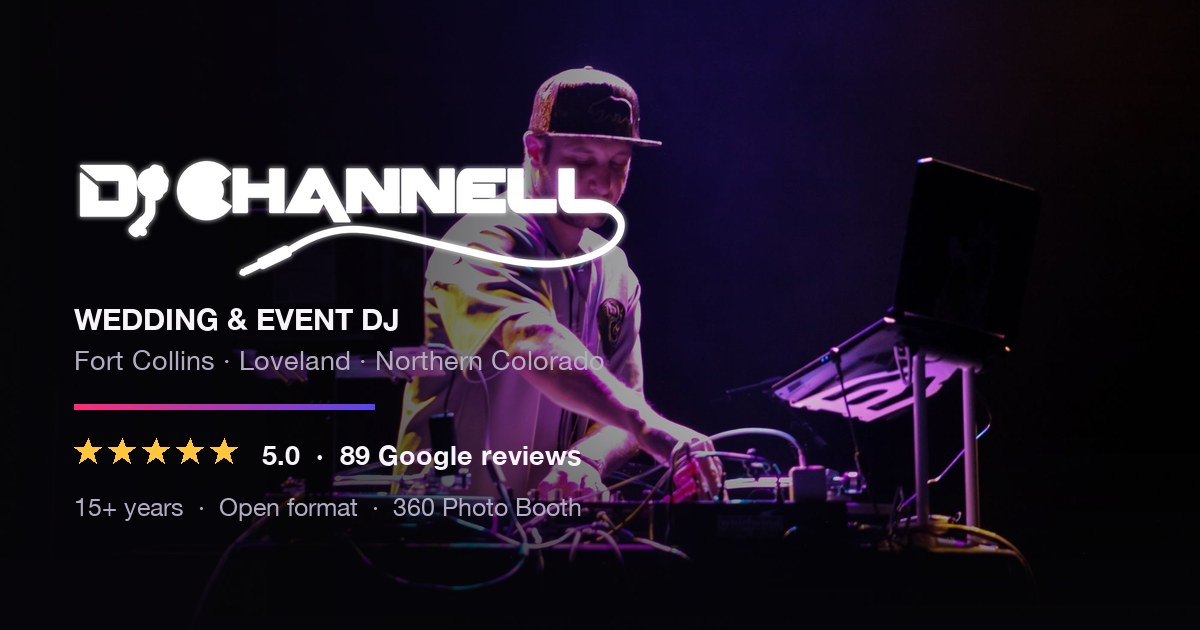
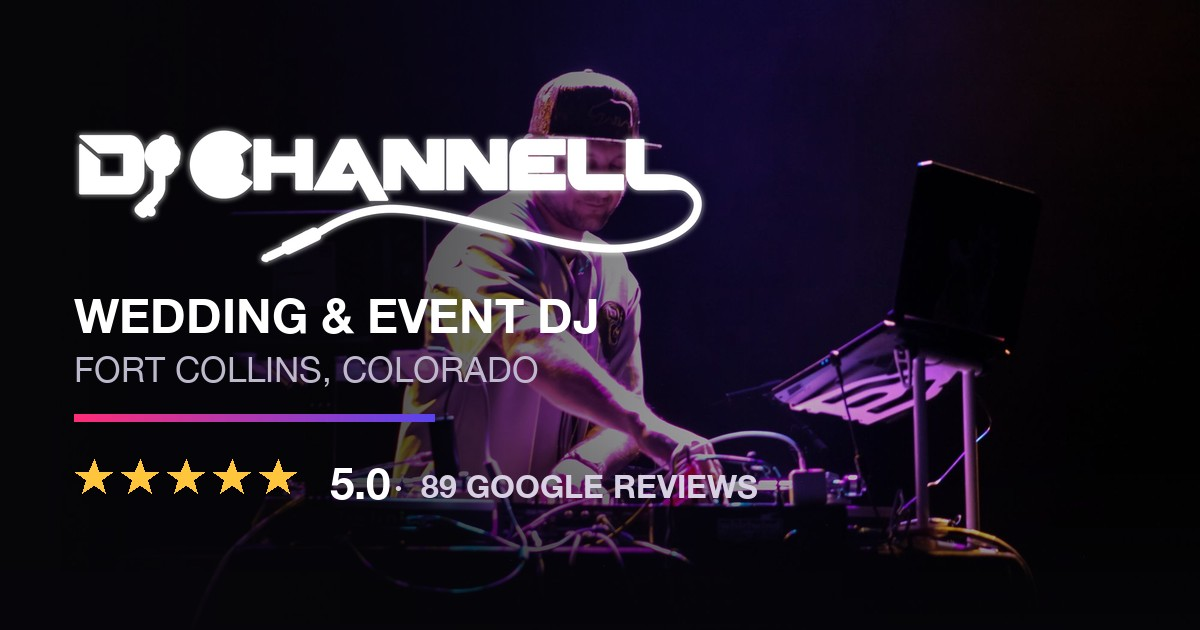
Make the link preview actually render when you text the site
og:image pointed at www.djchannell.com, which still serves Wix, so the image
404'd and texting the link produced a card with no picture. It now points at the
.vercel.app origin, which resolves today and keeps resolving after DNS moves.
og:url moved too - it was still claiming www.djchannell.com, and a scraper that
follows og:url would have fetched the old Wix site and previewed that instead.

canonical deliberately stays on www.djchannell.com so Google consolidates there
and never indexes the staging URL. set-domain.py flips the social tags between
the two domains in one command at cutover.

og:title and og:description on the homepage were still the old Wix strings -
the ones a text message actually shows. Updated, plus explicit twitter:image,
twitter:title, twitter:description, og:image:type and og:locale.

The card itself was built for a 1200px canvas and turned to mush at the ~350px
a message bubble renders it. Type is roughly 1.5x larger now and the location
line is shortened, checked by downscaling to 350px and reading it.

diff --git a/index.html b/index.html
@@ -14,14 +14,19 @@
 
 <meta property="og:type" content="website">
 <meta property="og:site_name" content="DJ CHANNELL">
-<meta property="og:url" content="https://www.djchannell.com/">
-<meta property="og:title" content="DJ CHANNELL | Professional DJ Service">
-<meta property="og:description" content="DJ CHANNELL #1 DJ Service - Weddings, Private Events, Company Parties, Graduations, and everything else you want music for! 360 Photo Booth Rentals.">
-<meta property="og:image" content="https://www.djchannell.com/assets/img/og-cover.jpg">
+<meta property="og:url" content="https://dj-channel.vercel.app/">
+<meta property="og:title" content="DJ CHANNELL | Wedding &amp; Event DJ in Fort Collins, CO">
+<meta property="og:description" content="Full-time wedding and event DJ in Fort Collins, Loveland and Northern Colorado. Open format, 15+ years, 5.0 from 89 Google reviews.">
+<meta property="og:image" content="https://dj-channel.vercel.app/assets/img/og-cover.jpg">
 <meta property="og:image:width" content="1200">
 <meta property="og:image:height" content="630">
 <meta property="og:image:alt" content="DJ CHANNELL mixing behind the decks under purple stage light">
+<meta property="og:image:type" content="image/jpeg">
+<meta property="og:locale" content="en_US">
 <meta name="twitter:card" content="summary_large_image">
+<meta name="twitter:image" content="https://dj-channel.vercel.app/assets/img/og-cover.jpg">
+<meta name="twitter:title" content="DJ CHANNELL | Wedding &amp; Event DJ in Fort Collins, CO">
+<meta name="twitter:description" content="Full-time wedding and event DJ in Fort Collins, Loveland and Northern Colorado. Open format, 15+ years, 5.0 from 89 Google reviews.">
 <meta name="theme-color" content="#08070A">
 
 <link rel="preconnect" href="https://fonts.googleapis.com">

diff --git a/weddings.html b/weddings.html
@@ -10,13 +10,18 @@
 
 <meta property="og:type" content="website">
 <meta property="og:site_name" content="DJ CHANNELL">
-<meta property="og:url" content="https://www.djchannell.com/weddings">
+<meta property="og:url" content="https://dj-channel.vercel.app/weddings">
 <meta property="og:title" content="Wedding DJ Fort Collins &amp; Northern Colorado | DJ CHANNELL">
-<meta property="og:description" content="Wedding DJ in Fort Collins, Loveland and Northern Colorado. Full-time, open-format, one-on-one planning from consultation to last song. 5.0 stars from 89 Google reviews. Get a quote.">
-<meta property="og:image" content="https://www.djchannell.com/assets/img/og-cover.jpg">
+<meta property="og:description" content="Wedding DJ in Fort Collins, Loveland and Northern Colorado. One DJ, one-on-one planning, open format. 5.0 stars from 89 Google reviews.">
+<meta property="og:image" content="https://dj-channel.vercel.app/assets/img/og-cover.jpg">
 <meta property="og:image:width" content="1200">
 <meta property="og:image:height" content="630">
+<meta property="og:image:type" content="image/jpeg">
+<meta property="og:locale" content="en_US">
 <meta name="twitter:card" content="summary_large_image">
+<meta name="twitter:image" content="https://dj-channel.vercel.app/assets/img/og-cover.jpg">
+<meta name="twitter:title" content="Wedding DJ Fort Collins &amp; Northern Colorado | DJ CHANNELL">
+<meta name="twitter:description" content="Wedding DJ in Fort Collins, Loveland and Northern Colorado. One DJ, one-on-one planning, open format. 5.0 stars from 89 Google reviews.">
 <meta name="theme-color" content="#08070A">
 <meta name="geo.region" content="US-CO">
 <meta name="geo.placename" content="Fort Collins, Colorado">

diff --git a/360-photo-booth.html b/360-photo-booth.html
@@ -10,13 +10,18 @@
 
 <meta property="og:type" content="website">
 <meta property="og:site_name" content="DJ CHANNELL">
-<meta property="og:url" content="https://www.djchannell.com/360-photo-booth">
+<meta property="og:url" content="https://dj-channel.vercel.app/360-photo-booth">
 <meta property="og:title" content="360 Photo Booth Rental Fort Collins, CO | DJ CHANNELL">
-<meta property="og:description" content="360 spinning photo booth rental in Fort Collins and Northern Colorado. Holds 5-7, unlimited HD slow-motion video, on-site operator, props. $150 reserves.">
-<meta property="og:image" content="https://www.djchannell.com/assets/img/og-cover.jpg">
+<meta property="og:description" content="360 spinning photo booth rental in Fort Collins and Northern Colorado. Holds 5-7, unlimited HD slow-motion video, on-site operator, props.">
+<meta property="og:image" content="https://dj-channel.vercel.app/assets/img/og-cover.jpg">
 <meta property="og:image:width" content="1200">
 <meta property="og:image:height" content="630">
+<meta property="og:image:type" content="image/jpeg">
+<meta property="og:locale" content="en_US">
 <meta name="twitter:card" content="summary_large_image">
+<meta name="twitter:image" content="https://dj-channel.vercel.app/assets/img/og-cover.jpg">
+<meta name="twitter:title" content="360 Photo Booth Rental Fort Collins, CO | DJ CHANNELL">
+<meta name="twitter:description" content="360 spinning photo booth rental in Fort Collins and Northern Colorado. Holds 5-7, unlimited HD slow-motion video, on-site operator, props.">
 <meta name="theme-color" content="#08070A">
 <meta name="geo.region" content="US-CO">
 <meta name="geo.placename" content="Fort Collins, Colorado">

diff --git a/set-domain.py b/set-domain.py
@@ -1,0 +1,40 @@
+#!/usr/bin/env python3
+"""Point the social-preview tags at whichever domain is actually serving the site.
+
+    python3 set-domain.py preview   # dj-channel.vercel.app  (before DNS moves)
+    python3 set-domain.py live      # www.djchannell.com     (after DNS moves)
+
+Why this exists: og:image and og:url have to resolve for a link preview to
+render. While djchannell.com still serves Wix, pointing them there gives a
+blank card in iMessage — or worse, a scraper that follows og:url and previews
+the old Wix site instead.
+
+<link rel="canonical"> is deliberately NOT touched. It always points at
+www.djchannell.com so Google consolidates on the real domain and never indexes
+the staging URL.
+"""
+import sys, re, glob, pathlib
+
+PREVIEW = 'https://dj-channel.vercel.app'
+LIVE    = 'https://www.djchannell.com'
+
+mode = (sys.argv[1] if len(sys.argv) > 1 else '').lower()
+if mode not in ('preview', 'live'):
+    sys.exit(__doc__)
+base = PREVIEW if mode == 'preview' else LIVE
+other = LIVE if mode == 'preview' else PREVIEW
+
+PATHS = {'index.html': '/', 'weddings.html': '/weddings',
+         '360-photo-booth.html': '/360-photo-booth',
+         'song-requests.html': '/song-requests'}
+
+for f in sorted(glob.glob('*.html')):
+    p = pathlib.Path(f); s = p.read_text(encoding='utf-8'); before = s
+    img = base + '/assets/img/og-cover.jpg'
+    url = base + PATHS.get(f, '/')
+    s = re.sub(r'(<meta property="og:image" content=")[^"]*(")', r'\g<1>%s\g<2>' % img, s)
+    s = re.sub(r'(<meta name="twitter:image" content=")[^"]*(")', r'\g<1>%s\g<2>' % img, s)
+    s = re.sub(r'(<meta property="og:url" content=")[^"]*(")', r'\g<1>%s\g<2>' % url, s)
+    if s != before:
+        p.write_text(s, encoding='utf-8'); print('%-24s -> %s' % (f, base))
+print('\nSocial tags now point at %s (canonical still %s)' % (base, LIVE))

diff --git a/MIGRATION.md b/MIGRATION.md
@@ -66,17 +66,27 @@ query.
 
 ## What a human has to do
 
-### One thing that looks broken until you switch, and isn't
+### Social preview tags are pointed at the preview domain on purpose
 
-`og:image` on every page points at `https://www.djchannell.com/assets/img/og-cover.jpg`
-— the final domain, which today still serves the Wix site. So **if you paste the
-`dj-channel.vercel.app` link into iMessage or Slack right now, the preview card
-will have no image.** That's expected. The tag is written for where the site is
-going, not for the temporary preview host, and it starts working the moment DNS
-moves. Nothing to change.
+`og:image` and `og:url` currently point at `dj-channel.vercel.app`, not at
+`www.djchannell.com`. That's deliberate: a link preview only renders if the
+image URL actually resolves, and `www.djchannell.com` still serves Wix, so
+pointing there gives a blank card in iMessage — or worse, a scraper that follows
+`og:url` and previews the *old Wix site* instead of this one.
 
-If you need a good-looking preview before cutover, temporarily swap the four
-`og:image` tags to the `dj-channel.vercel.app` URL and swap them back on the day.
+`<link rel="canonical">` is **not** pointed at the preview domain. It stays on
+`www.djchannell.com` so Google consolidates on the real domain and never indexes
+the staging URL.
+
+On cutover day, flip the social tags in one command:
+
+```bash
+python3 set-domain.py live
+```
+
+(Strictly optional — the `.vercel.app` alias keeps resolving after DNS moves, so
+the preview would keep working either way. It's just tidier for the tags to
+match the domain people actually see.)
 
 ### Before you switch DNS
 
